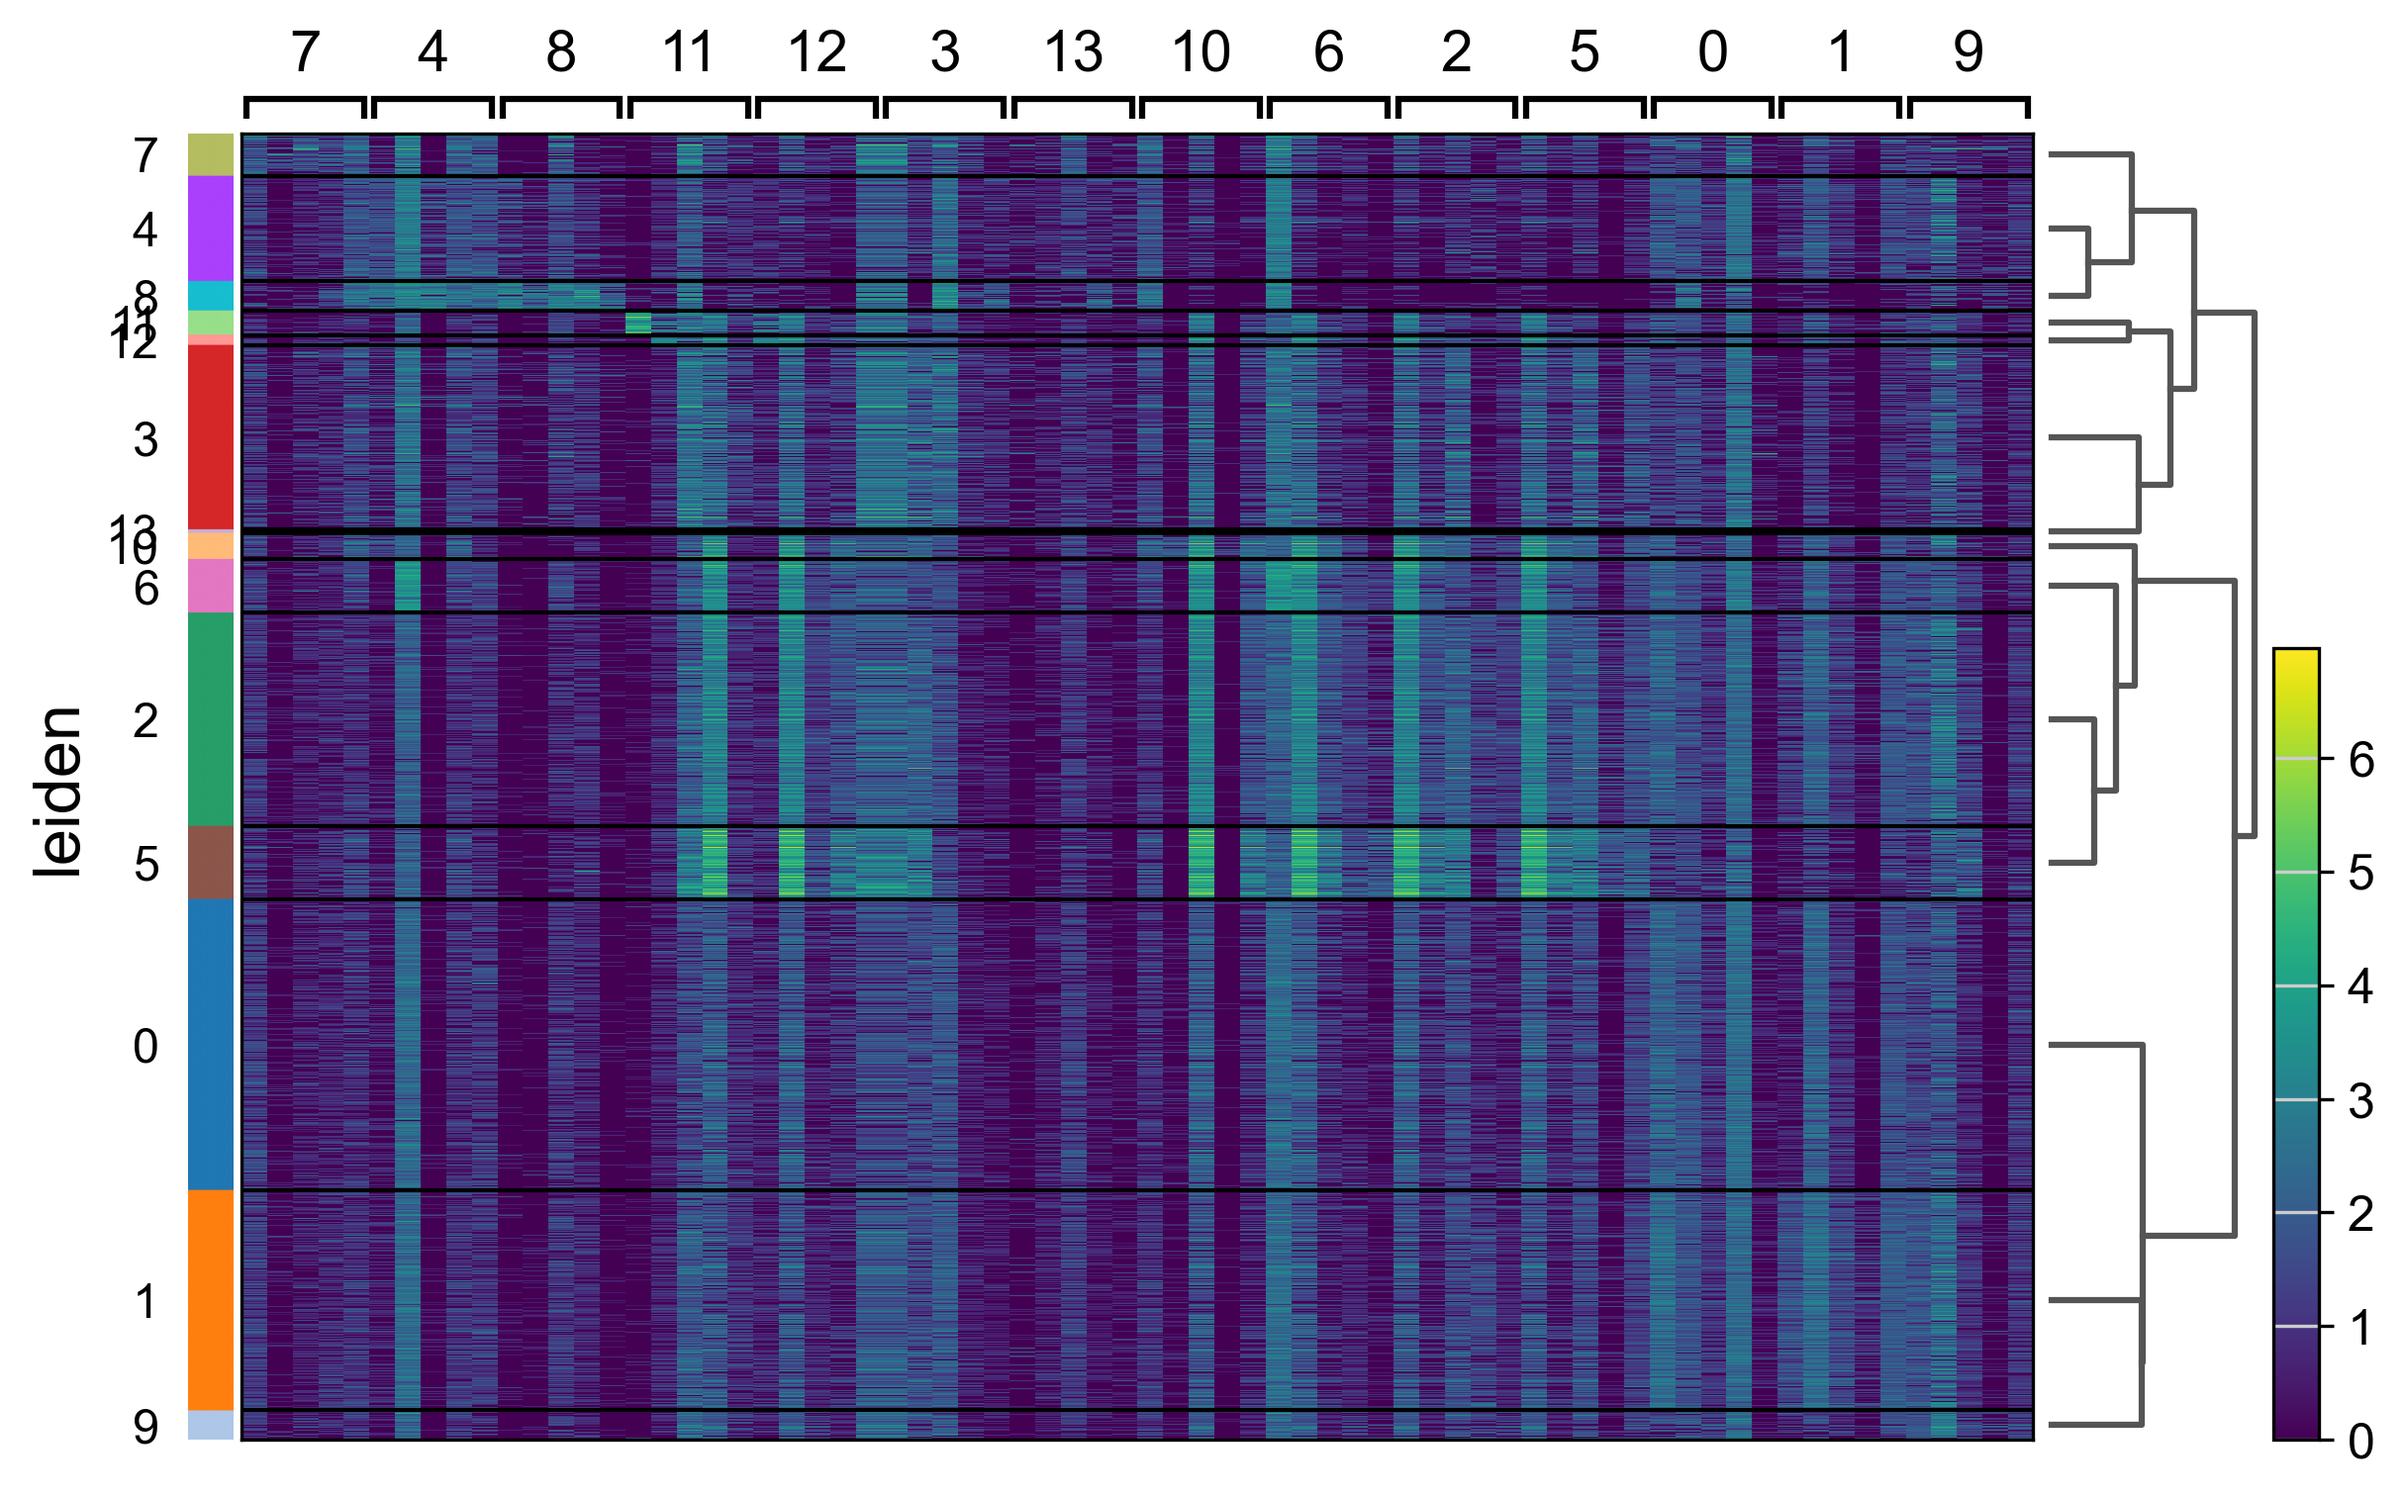
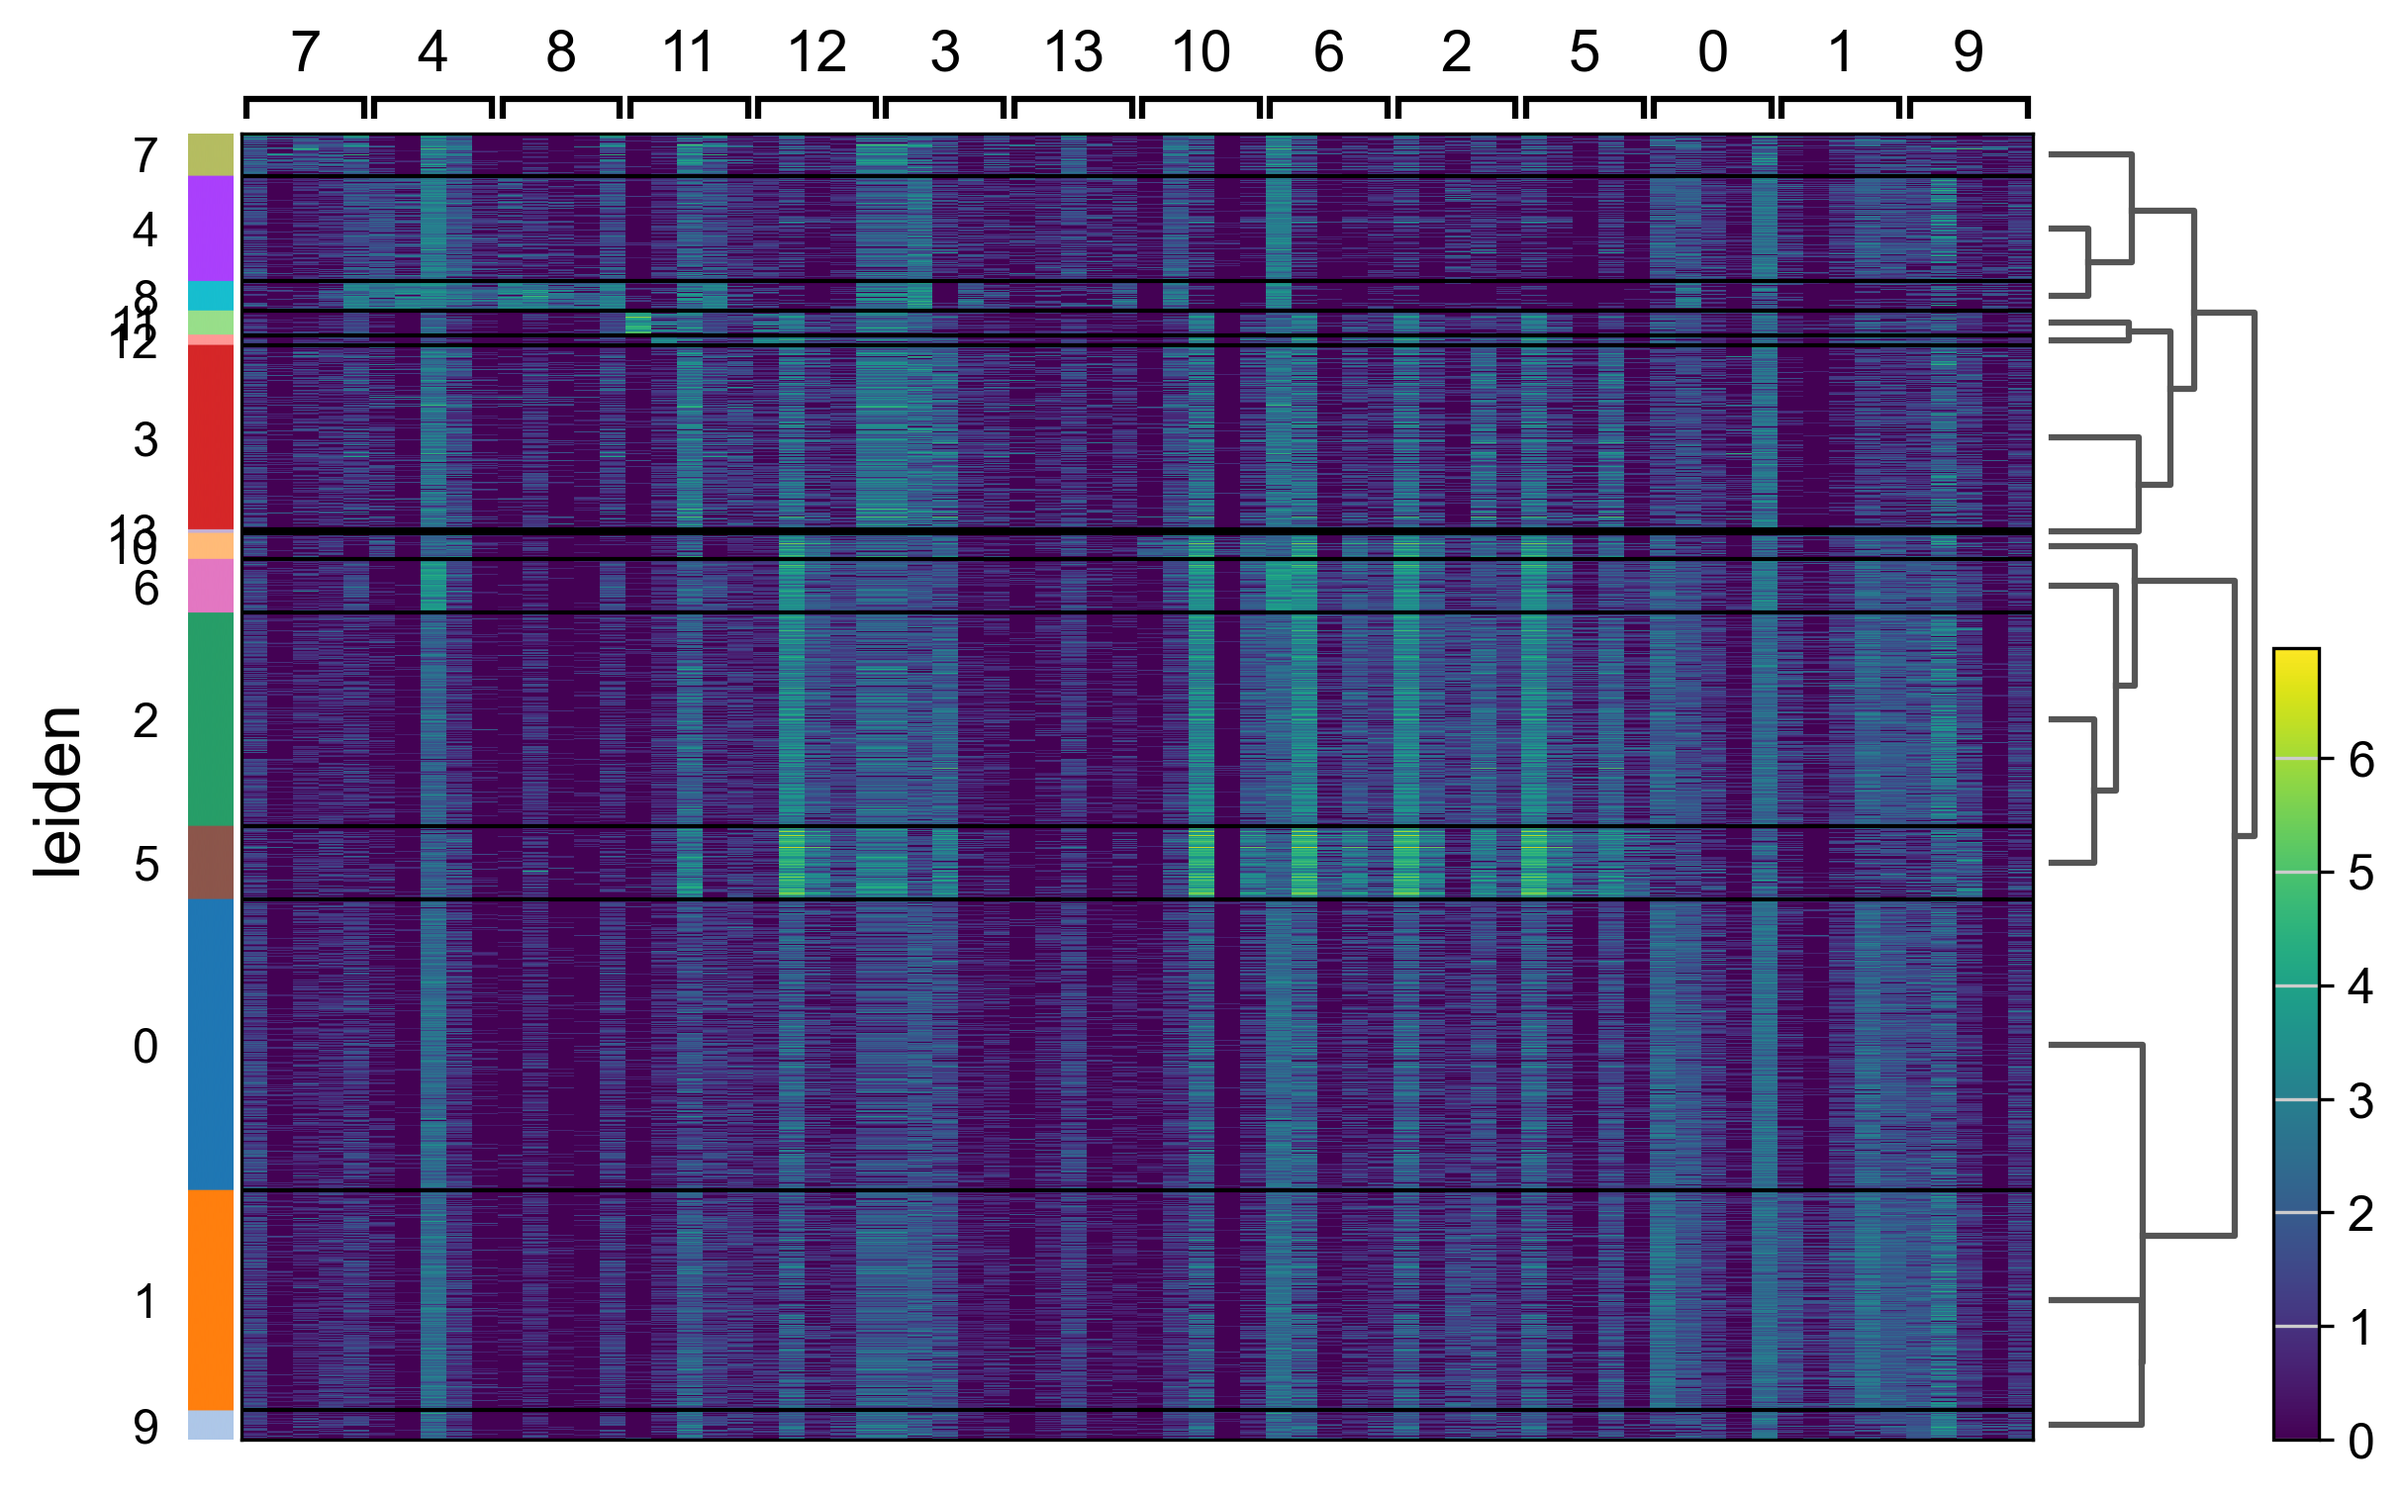
Updated plots

Changed region(s): [[0.1235, 0.0932, 0.494, 0.963], [0.5249, 0.0932, 0.8028, 0.963]]

diff --git a/src/projects/scrnaseq_project/generate_plots.py b/src/projects/scrnaseq_project/generate_plots.py
@@ -106,18 +106,26 @@ def generate_plots():
     # Ctrl vs Rest UMAP
     print("Generating Figure: UMAP Ctrl vs Rest...")
     adata.obs['ctrl_vs_rest'] = adata.obs['condition'].apply(lambda x: 'ctrl' if x == 'ctrl' else 'non-ctrl')
-    plt.clf()
-    # Plot non-ctrl first (background)
-    ax = sc.pl.umap(adata[adata.obs['ctrl_vs_rest'] == 'non-ctrl'], show=False, size=10, alpha=0.6)
-    # Overlay ctrl
-    sc.pl.umap(adata[adata.obs['ctrl_vs_rest'] == 'ctrl'], ax=ax, color='ctrl_vs_rest', 
-               palette={'ctrl': '#d62728', 'non-ctrl': '#1f77b4'}, # Red for ctrl to make it pop
-               size=30, show=False)
     
-    # Since we manually layered, we might need to adjust the legend or title manually if sc.pl writes over it
-    # But a simple colored UMAP by group is often safer for automation:
+    # Custom Palette
+    palette = {'ctrl': '#d62728', 'non-ctrl': '#d3d3d3'} # Red vs LightGrey
+    
     plt.clf()
-    sc.pl.umap(adata, color='ctrl_vs_rest', groups=['ctrl', 'non-ctrl'], palette=['#d62728', '#1f77b4'], show=False)
+    # Plot non-ctrl first (background) - Light, small, transparent
+    # We grab the axis from the first plot to overlay the second
+    ax = sc.pl.umap(adata[adata.obs['ctrl_vs_rest'] == 'non-ctrl'], 
+                    color='ctrl_vs_rest', palette=palette,
+                    show=False, size=20, alpha=0.1) # increased size slightly but very low alpha for 'fog' effect
+                    
+    # Overlay ctrl - Bold, large, opaque
+    sc.pl.umap(adata[adata.obs['ctrl_vs_rest'] == 'ctrl'], ax=ax, 
+               color='ctrl_vs_rest', palette=palette, 
+               size=50, alpha=1.0, show=False)
+               
+    plt.title("UMAP: Ctrl vs Rest")
+
+    # The clobbering call has been removed.
+
     
     save_path_umap_ctrl = os.path.join(report_dir, "figure_umap_ctrl.png")
     plt.savefig(save_path_umap_ctrl, dpi=300, bbox_inches='tight')
@@ -198,19 +206,80 @@ def generate_plots():
     plt.close()
     print(f"Saved Composition Plot to {save_path_composition}")
 
-
     
+
     print("Generating Figure 2: Heatmap...")
     # Markers
-    sc.tl.rank_genes_groups(adata, 'leiden', method='t-test')
+    # sc.tl.rank_genes_groups(adata, 'leiden', method='t-test') # Original
+    sc.tl.rank_genes_groups(adata, 'leiden', method='wilcoxon') # Updated to Wilcoxon
     
     # Heatmap
     plt.clf()
     sc.pl.rank_genes_groups_heatmap(adata, n_genes=5, groupby='leiden', show=False)
     save_path_heatmap = os.path.join(report_dir, "figure2_heatmap.png")
     plt.savefig(save_path_heatmap, bbox_inches='tight', dpi=300)
-    plt.close()
+    plt.close() # Close the figure to free memory
     print(f"Saved Heatmap to {save_path_heatmap}")
+
+    # Specific Comparison: 9 vs 12
+    print("Generating 9 vs 12 Comparison...")
+    try:
+        # Check if clusters 9 and 12 exist
+        if '9' in adata.obs['leiden'].cat.categories and '12' in adata.obs['leiden'].cat.categories:
+            # Ensure the previous rank_genes_groups result is cleared or overwritten
+            sc.tl.rank_genes_groups(adata, 'leiden', groups=['9'], reference='12', method='wilcoxon', key_added='rank_genes_9vs12')
+            
+            plt.clf()
+            # Restore to rank genes groups plot as per request ("use the previous")
+            sc.pl.rank_genes_groups(adata, n_genes=20, sharey=False, show=False, key='rank_genes_9vs12')
+                          
+            save_path_9vs12 = os.path.join(report_dir, "figure_comparison_9vs12.png")
+            plt.savefig(save_path_9vs12, bbox_inches='tight', dpi=300)
+            plt.close()
+            print(f"Saved 9vs12 Ranking Plot to {save_path_9vs12}")
+            
+            # Export top genes to text for report
+            result = adata.uns['rank_genes_9vs12']
+            groups = result['names'].dtype.names
+            top_genes_df = pd.DataFrame(
+                {group + '_' + key[:1]: result[key][group]
+                for group in groups for key in ['names', 'pvals_adj', 'logfoldchanges']}).head(5)
+            
+            with open(os.path.join(report_dir, "comparison_9vs12_genes.txt"), "w") as f:
+                f.write("--- Top Genes for Cluster 9 vs Cluster 12 ---\n")
+                f.write(top_genes_df.to_string())
+                f.write("\n\nFull list of top 5 genes for Cluster 9 (vs 12):\n")
+                
+                genes_9 = result['names']['9'][:5]
+                f.write(str(genes_9))
+                f.write("\n\n--- Gene Symbols ---\n")
+                
+                # Check for symbol column
+                symbol_col = None
+                for col in ['gene_name', 'gene_symbols', 'feature_name']:
+                    if col in adata.var.columns:
+                        symbol_col = col
+                        break
+                
+                if symbol_col:
+                    f.write(f"Using column '{symbol_col}' for symbols.\n")
+                    for gid in genes_9:
+                        if gid in adata.var_names:
+                            sym = adata.var.loc[gid, symbol_col]
+                            f.write(f"{gid}: {sym}\n")
+                        else:
+                            f.write(f"{gid}: Not found in var\n")
+                else:
+                    f.write("No symbol column found in adata.var.\n")
+                    f.write(f"Columns: {list(adata.var.columns)}\n")
+
+                f.write("\n------------------------------------------\n")
+
+        else:
+            print("Clusters '9' or '12' not found in adata.obs['leiden']. Skipping 9 vs 12 comparison.")
+    except Exception as e:
+        print(f"Could not run 9vs12 comparison: {e}")
+
 
 if __name__ == "__main__":
     try:
